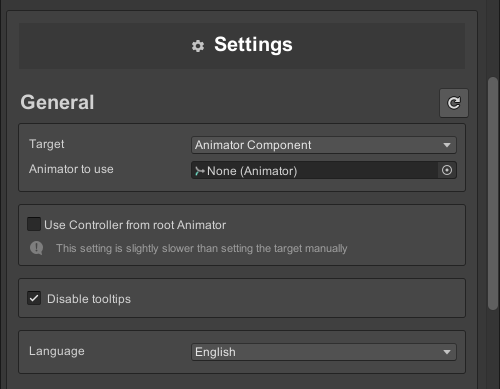
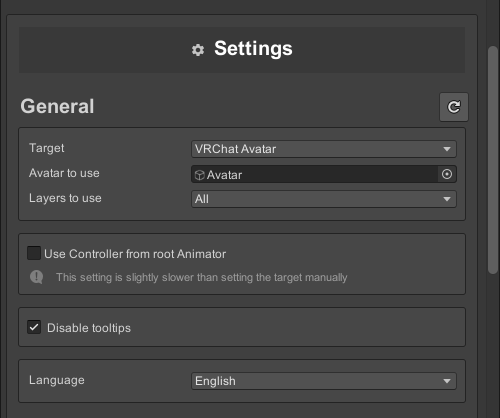
Add settings docs

diff --git a/src/content/docs/animation-repathing/settings.md b/src/content/docs/animation-repathing/settings.md
@@ -3,3 +3,41 @@ title: Settings
 sidebar:
   order: 5
 ---
+
+## General Settings
+
+![General Settings](../../../assets/images/animation-repathing/settings-general.png)
+
+- **Target**  
+Where the tool will get the Animator Controller from. This can be either an [Animator Component](https://docs.unity3d.com/Manual/class-Animator.html) or a [Avatar Descriptor](https://creators.vrchat.com/avatars/creating-your-first-avatar/#step-5---adding-an-avatar-descriptor).
+
+- **Animator/Avatar to use**  
+The GameObject containing the Animator Component or Avatar Descriptor.
+
+- **Layers to use**  
+This setting will only appear when using a VRChat Avatar. You can select which of the Avatars [Playable Layers](https://creators.vrchat.com/avatars/playable-layers/) the tool should or should not target.
+
+- **Use Controller from root Animator**  
+This setting will disable the above mentioned settings and automatically find an Animator Component in one of the parents whenever a GameObject is selected in the Hierarchy.
+
+- **Disable tooltips**  
+Prevent tooltips from showing up when hovering over elements in the window.
+
+- **Language**  
+Change the language of the text. Can choose between English, Japanese and Korean.
+
+## Automatic Settings
+
+![Automatic Settings](../../../assets/images/animation-repathing/settings-automatic.png)
+
+- **Warn on hierarchy change**  
+Whether the tool should open a warning popup whenever any changes in the Hierarchy are made.
+
+- **Warn only if used**  
+When enabled, the tool will only open a warning popup if the affected GameObject was used in any Animations.
+
+- **Run when window is closed**  
+Allows the tool to continue working even if the Animation Repathing window is closed.
+
+- **Disable console logging**  
+Prevent the tool from logging the old and new property path in the console whenever a property path changes.
